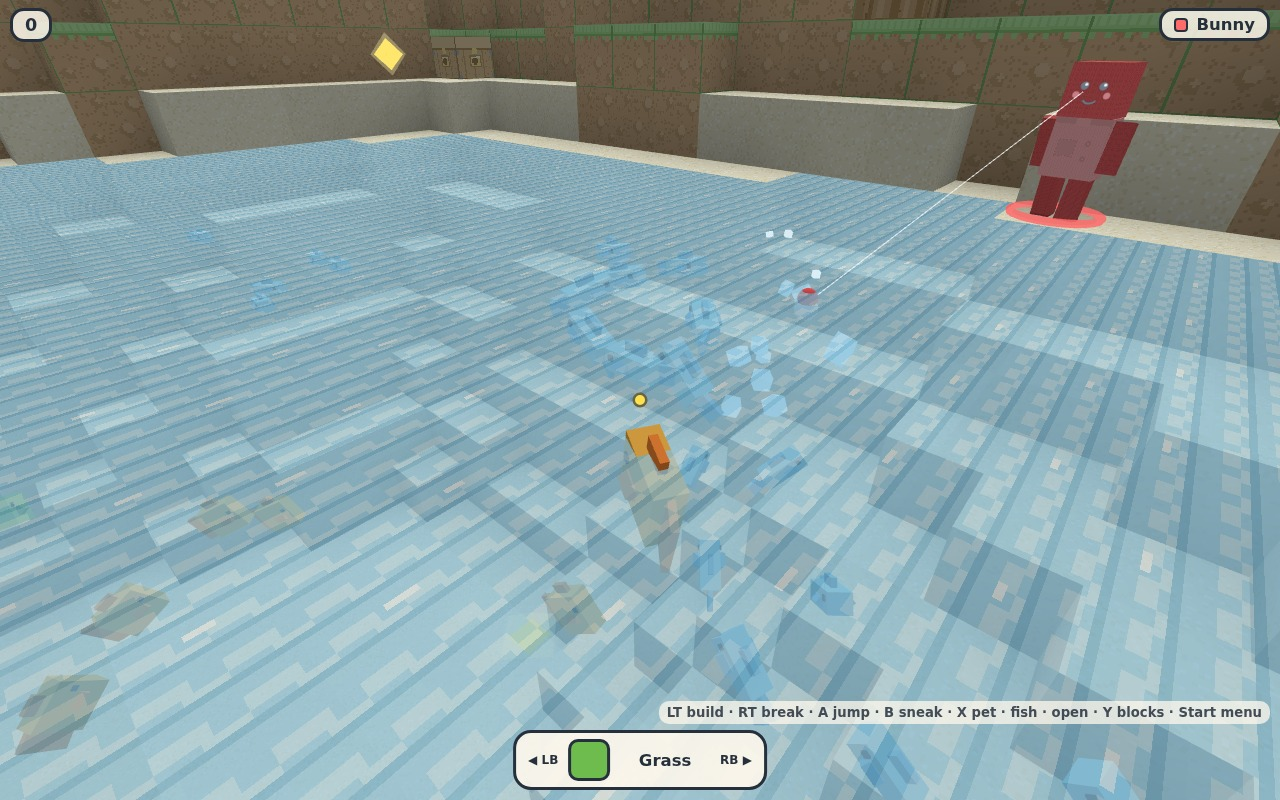
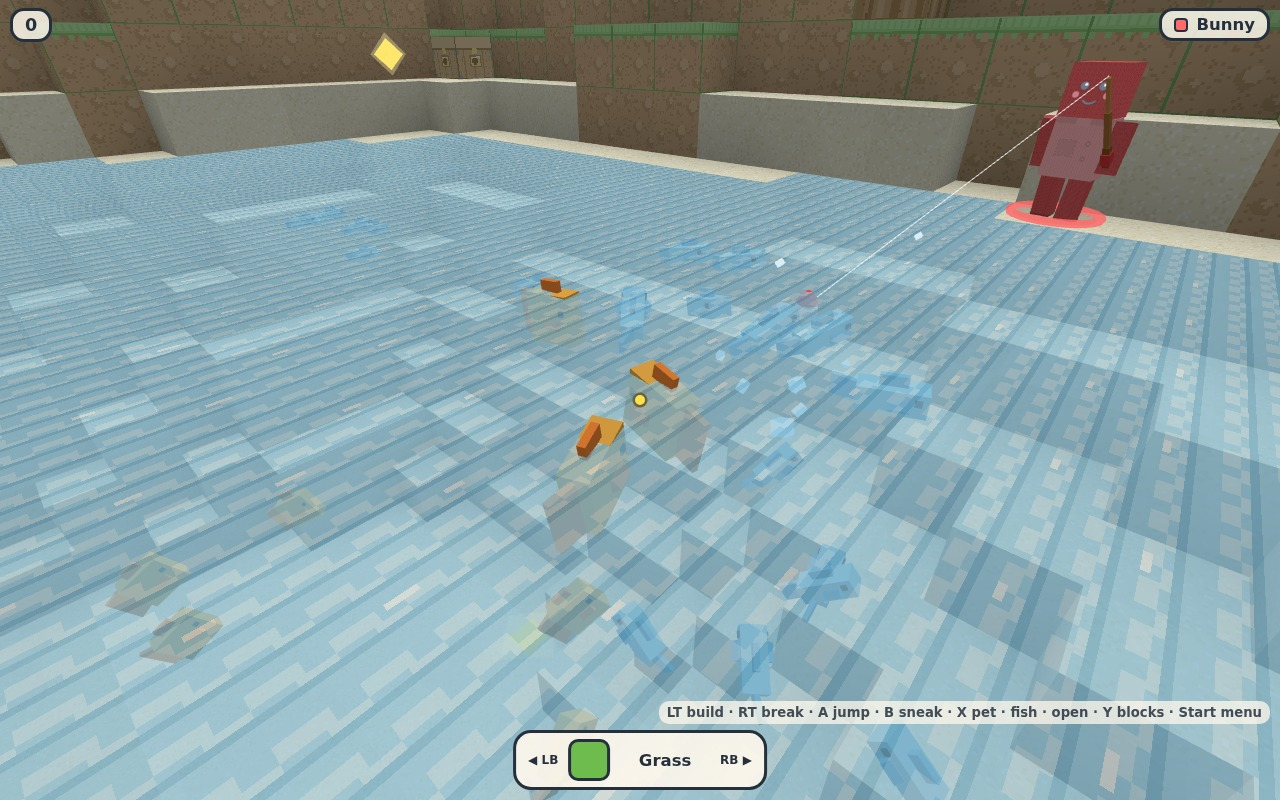
feat: fishing rods — the line hangs from the rod tip, not the eyes
Each line gets a little blocky rod: one parented to the avatar's right
arm (swings with the walk, re-follows the arm after a costume swap),
and one held low-right of the camera for first-person, on its own
three.js layer so only the owner's camera draws it. tipWorld() is the
single source of truth for the line start (cast arc, geometry,
reel-away distance). Re-shoot the PR screenshot with the rod in hand.

diff --git a/src/core/fishing.ts b/src/core/fishing.ts
@@ -21,7 +21,51 @@ export interface Angler {
   pos: THREE.Vector3;
   yaw: number;
   headHeight: number;
+  /** the angler's own camera — the first-person rod rides it */
+  camera: THREE.Camera;
+  firstPerson: boolean;
+  /** the avatar's right arm; the rod is parented so it swings with the arm */
+  rightArm: THREE.Object3D | null;
 }
+
+/** three.js layer for the first-person rod: only the owner's camera enables it */
+export const ROD_LAYER = 7;
+
+/** a little blocky rod: tapered sections and a red grip wrap, matching the bobber */
+function buildRod(): { group: THREE.Group; tip: THREE.Object3D } {
+  const group = new THREE.Group();
+  const seg = (w: number, len: number, y: number, color: number): void => {
+    const m = new THREE.Mesh(
+      new THREE.BoxGeometry(w, len, w),
+      new THREE.MeshLambertMaterial({ color }),
+    );
+    m.position.y = y;
+    group.add(m);
+  };
+  seg(0.06, 0.24, 0.12, 0x8a5a2b);
+  seg(0.048, 0.4, 0.44, 0xa4713c);
+  seg(0.032, 0.36, 0.82, 0xc08a50);
+  const grip = new THREE.Mesh(
+    new THREE.BoxGeometry(0.085, 0.13, 0.085),
+    new THREE.MeshLambertMaterial({ color: 0xd23f3f }),
+  );
+  grip.position.y = 0.1;
+  group.add(grip);
+  const tip = new THREE.Object3D();
+  tip.position.y = 1.02;
+  group.add(tip);
+  return { group, tip };
+}
+
+const disposeGeos = (root: THREE.Object3D): void => {
+  root.traverse((o) => {
+    if (o instanceof THREE.Mesh) o.geometry.dispose();
+  });
+};
+
+const TIP_TMP = new THREE.Vector3();
+const ROD_CAM_POS = new THREE.Vector3(0.34, -0.42, -0.8); // low right of the screen
+const ROD_CAM_TILT = new THREE.Quaternion().setFromEuler(new THREE.Euler(-1.15, 0, 0.15));
 
 export interface ReelOutcome {
   /** true when the bobber was mid-bite: a fish is coming in */
@@ -43,6 +87,12 @@ interface FishingLine {
   cell: { x: number; y: number; z: number }; // the water cell it sits in
   group: THREE.Group; // the bobber: red on white, like a proper bobber
   line: THREE.Line;
+  /** the rod in the kid's hand (hidden in first person, where the camera rod takes over) */
+  rod: THREE.Group | null;
+  rodTip: THREE.Object3D | null;
+  /** the rod held up to the angler's own camera, on its own three.js layer */
+  camRod: THREE.Group | null;
+  camRodTip: THREE.Object3D | null;
 }
 
 const FLIGHT_SECONDS = 0.5; // the cast's little arc
@@ -68,9 +118,32 @@ export class FishingManager {
   }
 
   /** throw a line into the water block (x,y,z); the bobber lands on its top */
-  cast(id: number, hand: THREE.Vector3, x: number, y: number, z: number): void {
+  cast(id: number, angler: Angler, x: number, y: number, z: number): void {
     if (this.lines.has(id)) return;
     const target = new THREE.Vector3(x + 0.5, y + 1.05, z + 0.5);
+    // the rod: one in the hand for other cameras, one in front of the
+    // angler's own camera when the body is hidden (first person)
+    let rod: THREE.Group | null = null;
+    let rodTip: THREE.Object3D | null = null;
+    if (angler.rightArm) {
+      const r = buildRod();
+      r.group.position.set(0, -0.42, 0.06); // the hand end of the arm limb
+      r.group.rotation.x = 0.72; // up and forward (the avatar's front is +Z)
+      r.group.rotation.z = 0.12;
+      angler.rightArm.add(r.group);
+      rod = r.group;
+      rodTip = r.tip;
+    }
+    const cr = buildRod();
+    cr.group.traverse((o) => o.layers.set(ROD_LAYER));
+    this.scene.add(cr.group);
+    // where the bobber leaves the hand: the rod tip in world space
+    const start = new THREE.Vector3();
+    if (rodTip && !angler.firstPerson) {
+      rodTip.getWorldPosition(start);
+    } else {
+      start.copy(angler.camera.localToWorld(ROD_CAM_POS.clone()));
+    }
     const group = new THREE.Group();
     const white = new THREE.Mesh(
       new THREE.SphereGeometry(0.1, 10, 8),
@@ -82,8 +155,8 @@ export class FishingManager {
     );
     red.position.y = 0.09;
     group.add(white, red);
-    group.position.copy(hand);
-    const lineGeo = new THREE.BufferGeometry().setFromPoints([hand.clone(), hand.clone()]);
+    group.position.copy(start);
+    const lineGeo = new THREE.BufferGeometry().setFromPoints([start.clone(), start.clone()]);
     const line = new THREE.Line(lineGeo, new THREE.LineBasicMaterial({ color: 0xf2f6fa, transparent: true, opacity: 0.85, depthWrite: false }));
     line.renderOrder = 8;
     line.frustumCulled = false;
@@ -93,15 +166,40 @@ export class FishingManager {
       phase: 'flying',
       t: 0,
       waitT: 0,
-      pos: hand.clone(),
-      start: hand.clone(),
+      pos: start.clone(),
+      start: start.clone(),
       target,
       surfaceY: target.y - 0.05,
       cell: { x, y, z },
       group,
       line,
+      rod,
+      rodTip,
+      camRod: cr.group,
+      camRodTip: cr.tip,
     });
     this.audio.castLine();
+  }
+
+  /** where the line hangs from right now: the active rod's tip, world space */
+  private tipWorld(l: FishingLine, angler: Angler): THREE.Vector3 {
+    if (angler.firstPerson) {
+      if (l.camRod && l.camRodTip) {
+        l.camRod.position.copy(angler.camera.localToWorld(TIP_TMP.copy(ROD_CAM_POS)));
+        l.camRod.quaternion.copy(angler.camera.quaternion).multiply(ROD_CAM_TILT);
+        return l.camRodTip.getWorldPosition(new THREE.Vector3());
+      }
+    } else if (l.rod && l.rodTip) {
+      // a costume swap rebuilds the avatar: follow the arm it lives on
+      if (angler.rightArm && l.rod.parent !== angler.rightArm) angler.rightArm.add(l.rod);
+      return l.rodTip.getWorldPosition(new THREE.Vector3());
+    }
+    // no avatar (shouldn't happen): the old waist-high hand
+    return new THREE.Vector3(
+      angler.pos.x + Math.sin(angler.yaw) * 0.5,
+      angler.pos.y + angler.headHeight * 0.72,
+      angler.pos.z + Math.cos(angler.yaw) * 0.5,
+    );
   }
 
   update(dt: number, anglers: readonly Angler[]): void {
@@ -112,11 +210,8 @@ export class FishingManager {
         this.remove(l); // their controller fell asleep mid-cast: tidy up
         continue;
       }
-      const hand = new THREE.Vector3(
-        angler.pos.x + Math.sin(angler.yaw) * 0.5,
-        angler.pos.y + angler.headHeight - 0.15,
-        angler.pos.z + Math.cos(angler.yaw) * 0.5,
-      );
+      const hand = this.tipWorld(l, angler);
+      if (l.camRod) l.camRod.visible = angler.firstPerson;
       l.t += dt;
 
       if (l.phase === 'flying') {
@@ -201,6 +296,14 @@ export class FishingManager {
   private remove(l: FishingLine): void {
     this.lines.delete(l.id);
     this.scene.remove(l.group, l.line);
+    if (l.rod) {
+      l.rod.removeFromParent(); // lives on the avatar's arm, not the scene
+      disposeGeos(l.rod);
+    }
+    if (l.camRod) {
+      this.scene.remove(l.camRod);
+      disposeGeos(l.camRod);
+    }
     l.group.traverse((o) => {
       if (o instanceof THREE.Mesh) o.geometry.dispose();
     });

diff --git a/src/game.ts b/src/game.ts
@@ -15,7 +15,7 @@ import {
 import { StarField } from './core/collectibles';
 import { BlastInfo, DynamiteManager } from './core/dynamite';
 import { FISH_DEFS, FishWorld, pickFishKind } from './core/fish';
-import { FishingManager } from './core/fishing';
+import { Angler, FishingManager, ROD_LAYER } from './core/fishing';
 import { ParticleSystem } from './core/particles';
 import { SandGravity } from './core/sand';
 import { WaterFlow } from './core/water';
@@ -1036,13 +1036,7 @@ export class Game {
         // generous crosshair already found that water within reach).
         const water = lp.target;
         if (water && isWaterId(water.block)) {
-          const e = lp.entity;
-          const hand = new THREE.Vector3(
-            e.pos.x + Math.sin(e.yaw) * 0.5,
-            e.pos.y + e.headHeight - 0.15,
-            e.pos.z + Math.cos(e.yaw) * 0.5,
-          );
-          this.fishing.cast(e.id, hand, water.x, water.y, water.z);
+          this.fishing.cast(lp.entity.id, this.angler(lp), water.x, water.y, water.z);
           return;
         }
         this.animals.petNearest(lp.entity.pos.x, lp.entity.pos.y + 0.8, lp.entity.pos.z, 2.4);
@@ -1386,6 +1380,20 @@ export class Game {
    * entirely, ring and shadow included. Ring + shadow stay on layer 0, so
    * everyone always finds themselves on the map.
    */
+  /** what FishingManager needs to know about one local player this frame */
+  private angler(p: LocalPlayer): Angler {
+    const e = p.entity;
+    return {
+      id: e.id,
+      pos: e.pos,
+      yaw: e.yaw,
+      headHeight: e.headHeight,
+      camera: p.camera,
+      firstPerson: p.firstPerson,
+      rightArm: e.avatar.rightArm,
+    };
+  }
+
   private applyAvatarLayers(cameras: THREE.Camera[]): void {
     const players = this.players;
     for (let i = 0; i < players.length; i++) {
@@ -1397,6 +1405,10 @@ export class Game {
     }
     for (let i = 0; i < players.length; i++) {
       if (!players[i].showOwnBody) players[i].camera.layers.disable(1 + i);
+      // first-person fishing: only the owner's own camera draws the held rod
+      if (players[i].firstPerson && this.fishing.active(players[i].entity.id)) {
+        players[i].camera.layers.enable(ROD_LAYER);
+      }
     }
   }
 
@@ -1412,7 +1424,7 @@ export class Game {
     if (!this.frozen) {
       this.animals.update(dt);
       this.fish.update(dt, this.players.map((p) => p.entity));
-      if (this.fishing.lines.size > 0) this.fishing.update(dt, this.players.map((p) => p.entity));
+      if (this.fishing.lines.size > 0) this.fishing.update(dt, this.players.map((p) => this.angler(p)));
       this.starField.update(this.time);
       this.dynamite.update(dt);
       this.sand.update(dt);

diff --git a/AGENTS.md b/AGENTS.md
@@ -244,6 +244,14 @@ event. Renaming a storage key orphans the family's existing saves.
   `fish:cast/plip/bite/reel/escape/caught:<kind>` into `AudioKit.recent`. The
   fishing e2e digs the swimming test's below-grade pond recipe (banks wall the
   water in, no caisson needed since the surface stays under the meadow).
+  The line hangs from a **rod**, never the eyes: `buildRod()` makes a blocky
+  tapered rod per line — one parented to `avatar.rightArm` (swings with the
+  walk, follows the arm after a `cycleModel` costume swap), and one held low
+  right of the angler's own camera when `firstPerson` (layer `ROD_LAYER` 7:
+  `applyAvatarLayers` enables it per camera, so only its owner sees it).
+  `tipWorld(l, angler)` is the single source of truth for the line's start —
+  the active rod tip's world position — used for cast start, geometry and the
+  reel-away distance; the no-avatar fallback is a waist-high hand.
 - Treasure chests: the loot roll is `core/treasure.ts` (weights + messages),
   the effects live in `Game.grantTreasure` (no inventory, so prizes happen to
   the world: star counters, `starField.spawnAt` stars, `playerEntity.zoomTime`

diff --git a/README.md b/README.md
@@ -48,10 +48,11 @@ keyboard) to open the world chooser:
 ## Fishing 🎣
 
 Any lake, pond or flooded sandpit will do: stand on the shore, **aim at the
-water** and press the pet button (**X / ☐**, or **E** on the keyboard) — a
-bobber arcs out and plops onto the surface. A moment later something bites:
-the bobber dives and plops, so press the pet button *again*. Too early and
-the hook comes up empty; too late and the fish gets away.
+water** and press the pet button (**X / ☐**, or **E** on the keyboard) — your
+kid swings a little rod and a bobber arcs out and plops onto the surface. A
+moment later something bites: the bobber dives and plops, so press the pet
+button *again*. Too early and the hook comes up empty; too late and the fish
+gets away.
 
 - What bites mostly lives where you are fishing. **Minnows and sunfish
   travel in schools** that drift through the water together; puffers and
